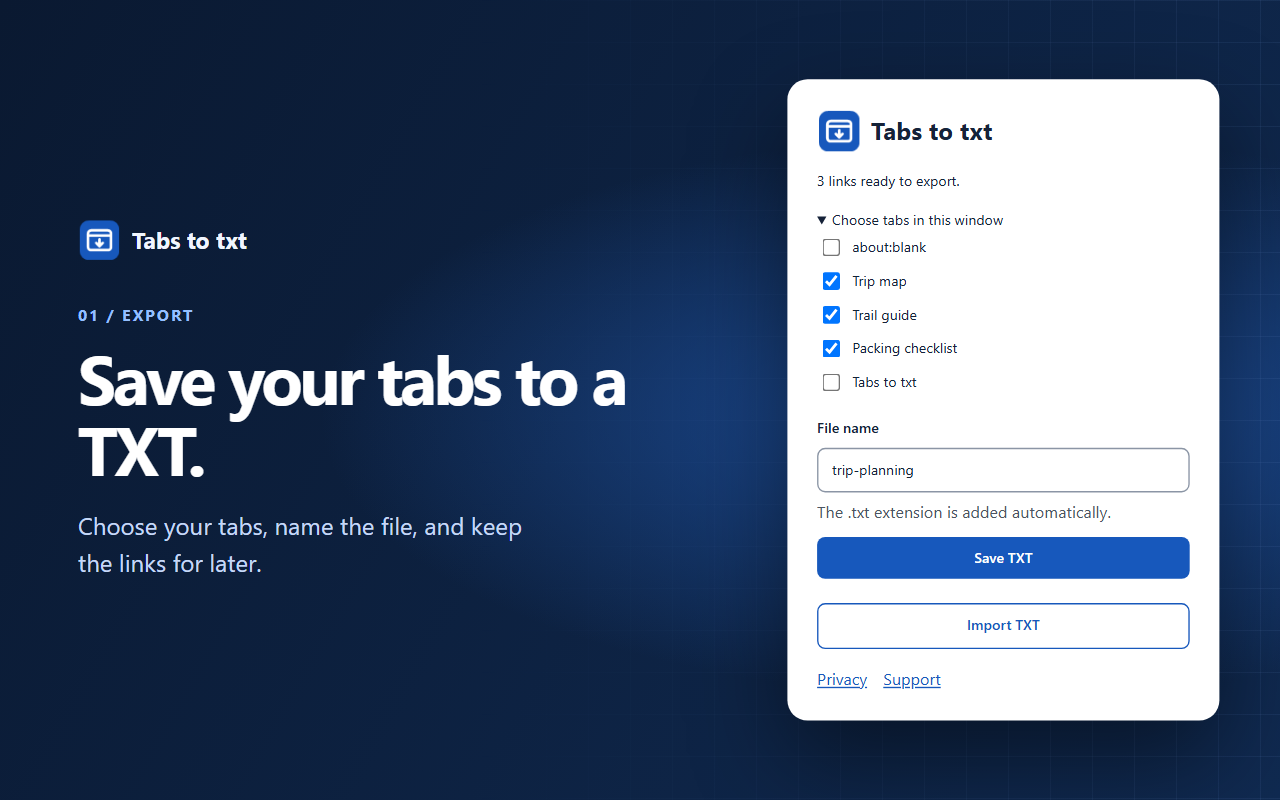
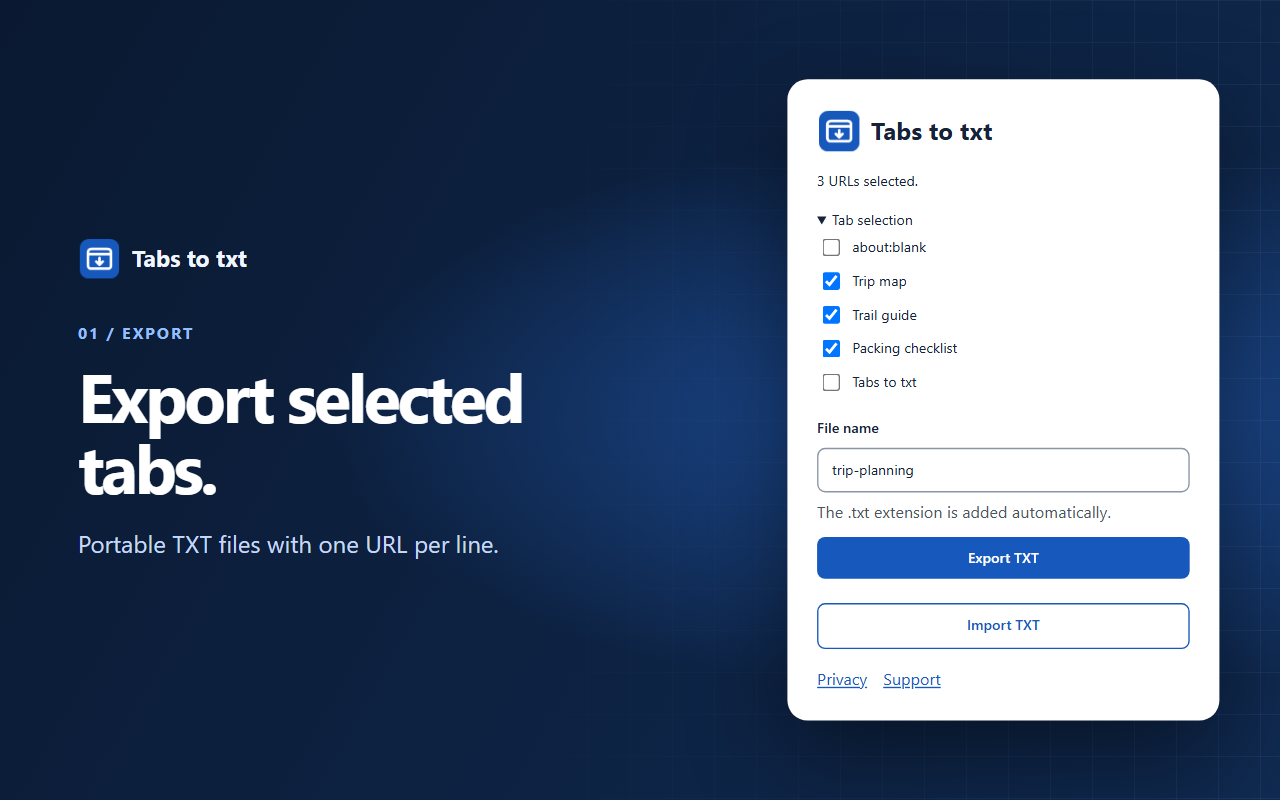
Standardize product copy and public documentation

diff --git a/privacy.html b/privacy.html
@@ -12,32 +12,34 @@
         <img src="icons/icon-48.png" width="32" height="32" alt="">
         <h1>Privacy Policy</h1>
       </header>
-      <p>Tabs to txt · November 6, 2026</p>
-      <p>The extension saves tab URLs to TXT files and opens links from a TXT file in your browser. It requires no account, includes no advertising or analytics, and sends no URLs, tab titles, or TXT files to servers operated by the project.</p>
+      <p>Effective November 7, 2026</p>
+      <p>This policy describes how Tabs to txt processes tab information and TXT files. The extension requires no account and includes no advertising, analytics, or telemetry.</p>
 
       <section>
-        <h2>Export and permissions</h2>
-        <p>When you open the popup, the extension reads the URLs, titles, and selection of the tabs in your current window. Titles help you identify the tabs in the interface. The TXT file contains only the URLs of the tabs you choose. On Safari, access to URLs depends on the website permissions you grant.</p>
+        <h2>Tab information</h2>
+        <p>Opening the popup reads the URLs, titles, and selection state of tabs in the current window. Tab titles are displayed for identification. Exported files contain only the URLs selected for export.</p>
+        <p>Safari requires website permissions to access tab URLs. Permissions can be managed or revoked in the browser's extension settings.</p>
       </section>
 
       <section>
-        <h2>Import</h2>
-        <p>The extension reads only the file you select, on your device. After you confirm, the browser visits the HTTP and HTTPS URLs in the file. Those sites receive ordinary browsing requests and apply their own privacy policies.</p>
+        <h2>File processing and website requests</h2>
+        <p>Tab information and selected TXT files are processed locally. The extension does not transmit URLs, tab titles, or file contents to project servers.</p>
+        <p>Import reads the selected TXT file. After confirmation, its valid HTTP and HTTPS URLs are opened through the browser. The destination websites receive ordinary browsing requests under their own privacy policies.</p>
       </section>
 
       <section>
         <h2>Storage and deletion</h2>
-        <p>The extension holds the working list temporarily in its interface and keeps no browsing history of its own. The exported TXT stays in your chosen folder or the browser's download location until you delete it. You can revoke permissions or remove the extension in your browser settings.</p>
+        <p>The working list is held temporarily in the extension interface. The extension maintains no separate browsing history. Exported TXT files remain in the selected download location until deleted through the operating system. The extension can be removed through the browser's extension settings.</p>
       </section>
 
       <section>
-        <h2>Contact</h2>
-        <p>For privacy questions or requests, email <a href="mailto:contato.tabstotxt@midnorth.com.br">contato.tabstotxt@midnorth.com.br</a>. If you contact us, we use your email address and the information you provide to respond and handle your request.</p>
+        <h2>Privacy inquiries</h2>
+        <p>Privacy requests can be sent to <a href="mailto:contato.tabstotxt@midnorth.com.br">contato.tabstotxt@midnorth.com.br</a>. Contact details and information submitted by email are used to respond to and resolve the request.</p>
       </section>
 
       <section>
         <h2>Chrome Limited Use</h2>
-        <p>Our use of information received from Chrome APIs complies with the Chrome Web Store User Data Policy, including its Limited Use requirements. The extension uses browsing activity only to show, export, and restore the tabs you choose.</p>
+        <p>Information accessed through Chrome APIs is used in accordance with the Chrome Web Store User Data Policy, including its Limited Use requirements. Browsing activity is used exclusively to display tab selections, export URLs, and restore saved links.</p>
       </section>
 
       <footer class="footer"><a href="support.html">Extension support</a></footer>

diff --git a/support.html b/support.html
@@ -12,18 +12,34 @@
         <img src="icons/icon-48.png" width="32" height="32" alt="">
         <h1>Support · Tabs to txt</h1>
       </header>
-      <p>Save the URLs of the tabs you choose and reopen links from a TXT file whenever you need them.</p>
+      <p>Product help and technical support for Tabs to txt.</p>
       <section>
-        <h2>Save tabs</h2>
-        <p>Select tabs in your browser or use <strong>Choose tabs in this window</strong> in the popup. Name the file and click <strong>Save TXT</strong>.</p>
+        <h2>Export tabs</h2>
+        <ol>
+          <li>Select tabs in the browser's tab bar, or expand <strong>Tab selection</strong> in the popup.</li>
+          <li>Enter a <strong>File name</strong>.</li>
+          <li>Select <strong>Export TXT</strong>.</li>
+        </ol>
+        <p>The exported file preserves tab order and contains one URL per line.</p>
       </section>
       <section>
         <h2>Import tabs</h2>
-        <p>Click <strong>Import TXT</strong>, select your file, then click <strong>Open tabs</strong>. Use a UTF-8 TXT file with one HTTP or HTTPS URL per line.</p>
+        <ol>
+          <li>Select <strong>Import TXT</strong> in the popup.</li>
+          <li>Select the saved TXT file.</li>
+          <li>Confirm the number of valid URLs and select <strong>Open tabs</strong>.</li>
+        </ol>
+        <p>HTTP and HTTPS URLs open in background tabs in the same window. Files must use UTF-8 with one URL per line.</p>
+      </section>
+      <section>
+        <h2>Import and export issues</h2>
+        <p>Tabs without an accessible URL are unavailable for export. Safari website access is managed in the browser's extension settings.</p>
+        <p>Blank lines are ignored during import. Invalid or unsupported entries are reported. Following a partial import, <strong>Open tabs</strong> retries only the remaining URLs.</p>
       </section>
       <section>
         <h2>Contact and feedback</h2>
-        <p>Email <a href="mailto:contato.tabstotxt@midnorth.com.br">contato.tabstotxt@midnorth.com.br</a> or <a href="https://github.com/Almeida-Paulo/tabs-to-txt/issues/new/choose">suggest a feature or report a bug on GitHub</a>.</p>
+        <p>Technical support and privacy inquiries can be sent to <a href="mailto:contato.tabstotxt@midnorth.com.br">contato.tabstotxt@midnorth.com.br</a>.</p>
+        <p>Feature requests and bug reports are available through <a href="https://github.com/Almeida-Paulo/tabs-to-txt/issues/new/choose">GitHub Issues</a>.</p>
       </section>
       <footer class="footer"><a href="privacy.html">Privacy Policy</a></footer>
     </main>

diff --git a/popup.js b/popup.js
@@ -23,7 +23,7 @@ exportForm.addEventListener("submit", (event) => {
 
   if (!name || /^\.txt$/i.test(name) || /[<>:"/\\|?*\x00-\x1f]/.test(name)
     || name.endsWith(".") || reservedName.test(firstPart)) {
-    fileNameInput.setCustomValidity("Enter a valid Windows file name.");
+    fileNameInput.setCustomValidity("Invalid file name. Use a name supported by Windows.");
     fileNameInput.reportValidity();
     return;
   }
@@ -38,7 +38,7 @@ importButton.addEventListener("click", async () => {
   try {
     await extensionApi.tabs.create({ url: extensionApi.runtime.getURL("import.html") });
   } catch {
-    importStatus.textContent = "Could not open the import page.";
+    importStatus.textContent = "Unable to open the import page.";
   } finally {
     importButton.disabled = false;
   }
@@ -55,7 +55,7 @@ function updateSelection() {
   exportForm.hidden = urls.length === 0;
 
   if (urls.length === 0) {
-    statusMessage.textContent = "Choose at least one tab with an available URL.";
+    statusMessage.textContent = "No exportable tabs selected.";
     return;
   }
 
@@ -66,11 +66,11 @@ function updateSelection() {
 
   const missingCount = checkedTabs.length - urls.length;
   statusMessage.textContent = urls.length === 1
-    ? "1 link ready to export."
-    : `${urls.length} links ready to export.`;
+    ? "1 URL selected."
+    : `${urls.length} URLs selected.`;
 
   if (missingCount > 0) {
-    statusMessage.textContent += ` Tabs without an available URL: ${missingCount}.`;
+    statusMessage.textContent += ` Unavailable URLs (${missingCount}).`;
   }
 }
 
@@ -88,7 +88,7 @@ async function loadTabs() {
     checkbox.value = tab.url || tab.pendingUrl || "";
     checkbox.checked = Boolean(hasHighlightedTabs ? tab.highlighted : tab.selected || tab.active);
     checkbox.disabled = !checkbox.value;
-    title.textContent = tab.title || checkbox.value || "Tab without an available URL";
+    title.textContent = tab.title || checkbox.value || "URL unavailable";
     label.append(checkbox, title);
     tabOptions.append(label);
   }
@@ -98,5 +98,5 @@ async function loadTabs() {
 }
 
 loadTabs().catch(() => {
-  statusMessage.textContent = "Could not prepare the TXT file. Close and reopen the extension to try again.";
+  statusMessage.textContent = "Unable to load tab URLs. Reopen the extension to retry.";
 });

diff --git a/import.js b/import.js
@@ -40,11 +40,11 @@ fileInput.addEventListener("change", async () => {
     const { urls, skipped } = readLinks(await file.text());
     pendingUrls = urls;
     statusMessage.textContent = urls.length > 0
-      ? (urls.length === 1 ? "1 link ready to open." : urls.length + " links ready to open.")
-      : "The file has no valid HTTP or HTTPS links.";
-    if (skipped > 0) statusMessage.textContent += " Skipped lines: " + skipped + ".";
+      ? (urls.length === 1 ? "1 URL ready to open." : urls.length + " URLs ready to open.")
+      : "No valid HTTP or HTTPS URLs found.";
+    if (skipped > 0) statusMessage.textContent += " Skipped entries (" + skipped + ").";
   } catch {
-    statusMessage.textContent = "Could not read the file. Select the TXT file again.";
+    statusMessage.textContent = "Unable to read the TXT file. Select the file again.";
     fileInput.value = "";
   } finally {
     fileInput.disabled = false;
@@ -62,7 +62,7 @@ importForm.addEventListener("submit", async (event) => {
 
   try {
     const importTab = await extensionApi.tabs.getCurrent();
-    if (!importTab) throw new Error("The import page is not open in a tab.");
+    if (!importTab) throw new Error("Import page has no associated browser tab.");
 
     let index = importTab.index + 1;
     let opened = 0;
@@ -79,14 +79,14 @@ importForm.addEventListener("submit", async (event) => {
     }
 
     pendingUrls = failed;
-    statusMessage.textContent = opened === 1 ? "Opened 1 tab." : "Opened " + opened + " tabs.";
+    statusMessage.textContent = opened === 1 ? "1 tab opened." : opened + " tabs opened.";
     if (failed.length > 0) {
-      statusMessage.textContent += " Links that could not be opened: " + failed.length + ". Click Open tabs to try those links again.";
+      statusMessage.textContent += " Unopened URLs (" + failed.length + "). Use Open tabs to retry.";
     } else {
       fileInput.value = "";
     }
   } catch {
-    statusMessage.textContent = "Could not find this tab's window. Reopen the import page from the extension icon.";
+    statusMessage.textContent = "Browser window unavailable. Reopen Import TXT from the extension.";
   } finally {
     fileInput.disabled = false;
     openButton.disabled = pendingUrls.length === 0;

diff --git a/popup.html b/popup.html
@@ -13,9 +13,9 @@
         <img src="icons/icon-48.png" width="32" height="32" alt="">
         <h1>Tabs to txt</h1>
       </header>
-      <p id="status" role="status">Reading the tab selection…</p>
+      <p id="status" role="status">Loading tabs…</p>
       <details id="tab-picker" hidden>
-        <summary>Choose tabs in this window</summary>
+        <summary>Tab selection</summary>
         <div id="tab-options"></div>
       </details>
       <form id="export-form" hidden>
@@ -23,7 +23,7 @@
         <input id="file-name" type="text" value="selected-tabs" maxlength="240"
           autocomplete="off" spellcheck="false" aria-describedby="file-name-hint" required>
         <p id="file-name-hint" class="hint">The .txt extension is added automatically.</p>
-        <button type="submit">Save TXT</button>
+        <button type="submit">Export TXT</button>
       </form>
       <a id="download" download hidden></a>
       <button id="import-button" class="secondary" type="button">Import TXT</button>

diff --git a/import.html b/import.html
@@ -13,11 +13,11 @@
         <img src="icons/icon-48.png" width="32" height="32" alt="">
         <h1>Import TXT</h1>
       </header>
-      <p>Open the links from a file in new tabs in this window.</p>
+      <p>Restore saved URLs as background tabs in this window.</p>
       <form id="import-form">
         <label for="txt-file">TXT file</label>
         <input id="txt-file" type="file" accept=".txt,text/plain" aria-describedby="txt-hint" required>
-        <p id="txt-hint" class="hint">Use a UTF-8 file with one HTTP or HTTPS link per line.</p>
+        <p id="txt-hint" class="hint">UTF-8 text file with one HTTP or HTTPS URL per line.</p>
         <button id="open-tabs" type="submit" disabled>Open tabs</button>
       </form>
       <p id="status" role="status"></p>

diff --git a/README.md b/README.md
@@ -1,33 +1,65 @@
 # Tabs to txt
 
-Save selected tabs to a TXT file and reopen the links whenever you need them. The file contains one URL per line in UTF-8, in the order the tabs appeared in your browser.
+Tabs to txt is a browser extension for exporting selected tab URLs to a portable TXT file and restoring saved URLs as browser tabs.
+
+Files use UTF-8 with one URL per line. Tab information and file contents are processed locally.
 
 ![Tabs to txt with three tabs selected for export](store/images/01-export-tabs.png)
 
-## How to use
+## Features
 
-1. Select tabs in the browser's tab bar or use **Choose tabs in this window** in the popup.
-2. Enter a **File name** and click **Save TXT**.
-3. To reopen the links, click **Import TXT**, select your file, then click **Open tabs**.
+- Export selected tabs with a custom file name.
+- Preserve tab order and duplicate URLs.
+- Restore saved HTTP and HTTPS links in background tabs in the same window.
+- Edit saved lists with any text editor.
 
-HTTP and HTTPS links open in background tabs in the same window. The extension ignores blank lines and reports how many other lines it skipped. Try it with the [sample TXT file](store/sample-tabs.txt).
+## Export tabs
 
-## Local installation
+1. Select tabs in the browser's tab bar, or expand **Tab selection** in the extension popup.
+2. Enter a **File name**.
+3. Select **Export TXT**.
 
-- **Chrome, Edge, and Brave.** Open `chrome://extensions`, `edge://extensions`, or `brave://extensions`. Turn on **Developer mode**, click **Load unpacked**, and select the folder containing `manifest.json`.
-- **Firefox.** Open `about:debugging#/runtime/this-firefox`, click **Load Temporary Add-on**, and select `manifest.json`. The installation lasts until you restart Firefox. [Mozilla documentation](https://extensionworkshop.com/documentation/develop/temporary-installation-in-firefox/)
-- **Safari on macOS.** Generate the Safari ZIP with `scripts/package.py` or download it from the project's Releases page when available. On supported versions, use **Safari → Settings → Developer → Add Temporary Extension**. Grant access to the websites whose URLs you want to export. [Temporary installation](https://developer.apple.com/documentation/safariservices/running-your-safari-web-extension) · [Website permissions](https://developer.apple.com/documentation/safariservices/managing-safari-web-extension-permissions)
+The file contains the selected URLs in tab order. The `.txt` extension is added automatically.
+
+## Import tabs
+
+1. Select **Import TXT** in the popup.
+2. Select a saved TXT file.
+3. Confirm the number of valid URLs and select **Open tabs**.
+
+Valid URLs open in background tabs in the same window. Blank lines are ignored, and invalid or unsupported entries are reported. If a tab cannot be opened, a subsequent attempt retries only the remaining URLs.
+
+![Tabs to txt ready to reopen a saved list](store/images/02-import-tabs.png)
+
+## File format
+
+TXT files contain one URL per line in UTF-8. Import supports HTTP and HTTPS addresses.
+
+```text
+https://example.com/
+https://example.org/
+https://example.net/
+```
+
+A [sample TXT file](store/sample-tabs.txt) is included.
+
+## Manual installation
+
+Download the source archive through **Code → Download ZIP** and extract its contents.
+
+- **Chrome, Edge, and Brave.** Open `chrome://extensions`, `edge://extensions`, or `brave://extensions`. Turn on **Developer mode**, click **Load unpacked**, and select the extracted folder containing `manifest.json`.
+- **Firefox.** Open `about:debugging#/runtime/this-firefox`, select **Load Temporary Add-on**, and select `manifest.json`. The temporary installation ends when Firefox restarts.
+
+Safari requires a separate extension package and website access permissions. Compatibility with Safari on macOS is under validation.
 
 ## Privacy
 
-The extension processes URLs, tab titles, and files on your device. It requires no account and includes no telemetry. See the [Privacy Policy](privacy.html) and [support page](support.html).
+Tab URLs, titles, and TXT files are processed on the device. The extension requires no account and includes no advertising or telemetry. Imported URLs are opened through the browser's normal navigation process.
 
-## Feedback and bug reports
+[Privacy Policy](https://almeida-paulo.github.io/tabs-to-txt/privacy.html) · [Product support](https://almeida-paulo.github.io/tabs-to-txt/support.html)
 
-Choose **Feature request** or **Bug report** when opening an issue. Use example URLs in public reports. For privacy questions, email [contato.tabstotxt@midnorth.com.br](mailto:contato.tabstotxt@midnorth.com.br). [Open an issue on GitHub](https://github.com/Almeida-Paulo/tabs-to-txt/issues/new/choose)
+## Feedback and support
 
-## Development and publishing
+Feature requests and bug reports are available through [GitHub Issues](https://github.com/Almeida-Paulo/tabs-to-txt/issues/new/choose).
 
-The extension uses Manifest V3 and plain JavaScript, HTML, and CSS. You can load the source folder directly. To build the distribution ZIPs, run `python scripts/package.py` from the extension root with Python 3.8 or later. The packager uses only the Python standard library and writes ZIPs and SHA-256 checksums to `packages/`.
-
-See the [publishing guide](store/PUBLISHING.md) to set up the repository, host the policy, and submit the packages to the stores.
+Technical support and privacy inquiries can be sent to [contato.tabstotxt@midnorth.com.br](mailto:contato.tabstotxt@midnorth.com.br).
